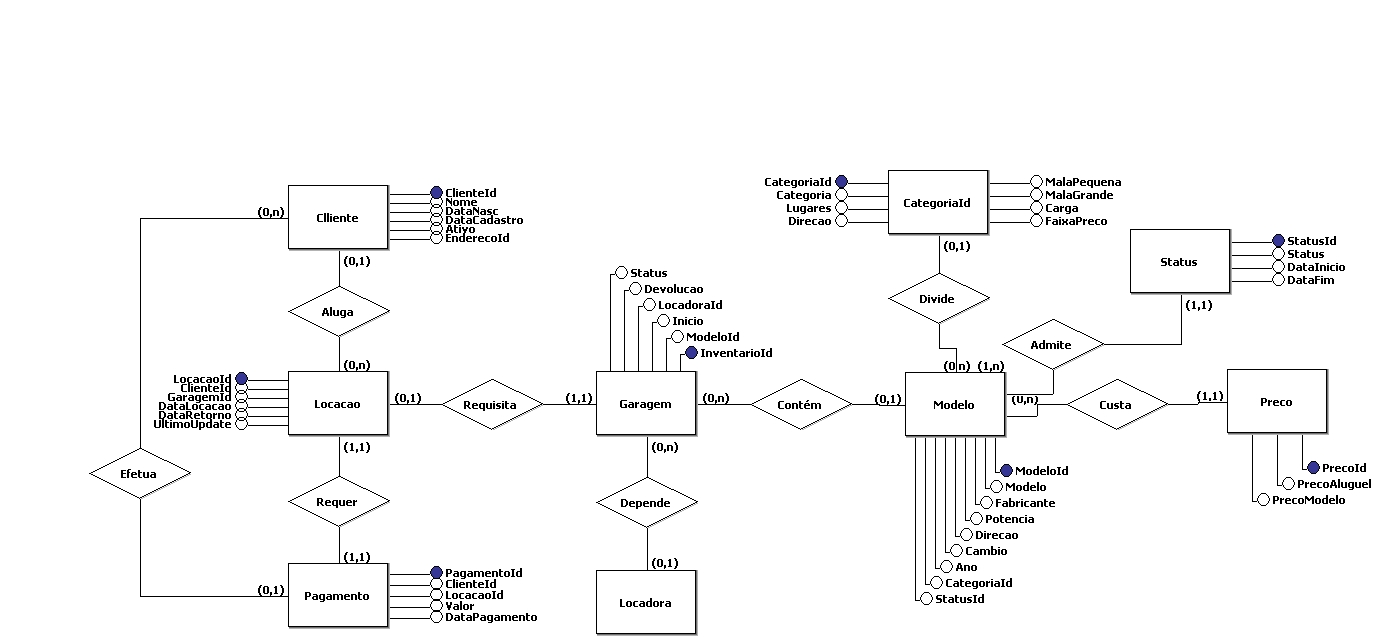
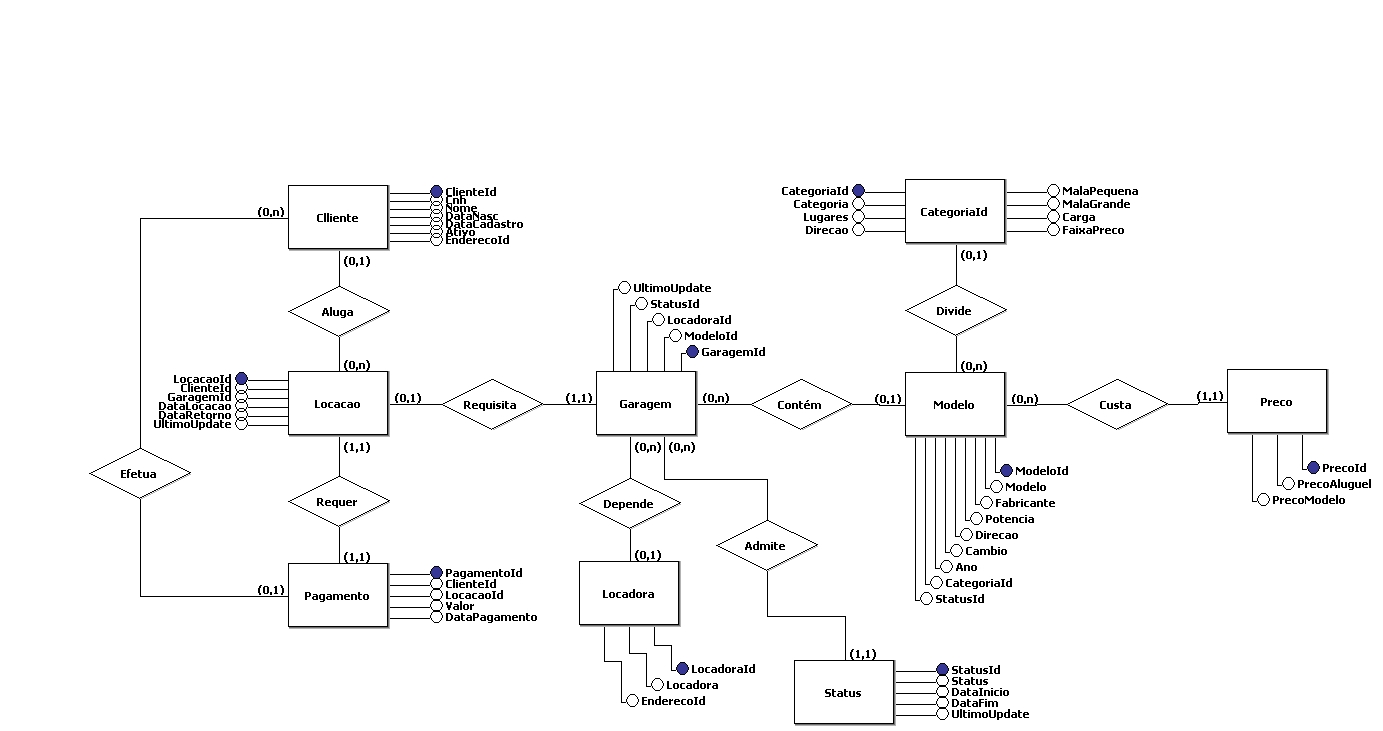
ajustes E-R

diff --git a/modelagem/2. Entidade-Relacionamento.md b/modelagem/2. Entidade-Relacionamento.md
@@ -32,6 +32,7 @@ ENDERECO
 CLIENTE
 - ClienteId		<!-- cpf -->
 - Nome
+- Cnh
 - DataNasc
 - DataCadastro	<!-- timestamp -->
 - Ativo			<!-- boolean -->
@@ -51,16 +52,19 @@ MODELO
 - ModeloId
 - Modelo
 - Fabricante
-- Potencia
 - Direcao
 - Cambio
 - Ano
+- PrecoAluguel	<!-- ~ 0.2% PrecoModelo -->
+- PrecoModelo
 - CategoriaId
+- Foto
 - UltimoUpdate	<!-- timestamp -->
-<!-- - Motor -->
-<!-- - CargaMax -->
-<!-- - Peso -->
-<!-- - Cor -->
+<!-- Potencia -->
+<!-- Motor -->
+<!-- CargaMax -->
+<!-- Peso -->
+<!-- Cor -->
 
 LOCADORA
 - LocadoraId
@@ -71,11 +75,11 @@ GARAGEM
 - GaragemId
 - ModeloId
 - LocadoraId
-- StatusId
 - UltimoUpdate	<!-- timestamp -->
 
 STATUS
 - StatusId
+- GaragemId
 - Status		<!-- enum('Disponível', 'Alugado', 'Reservado', 'Manutenção') -->
 - DataInicio
 - DataFim
@@ -93,7 +97,7 @@ PAGAMENTO
 - PagamentoId
 - ClienteId
 - LocacaoId
-- Valor
+- Valor			<!-- = PrecoAluguel * (DataRetorno - DataLocacao) -->
 - DataPagamento	<!-- datetime -->
 
 
